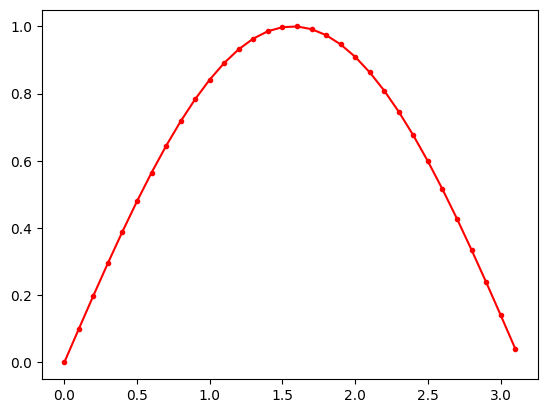
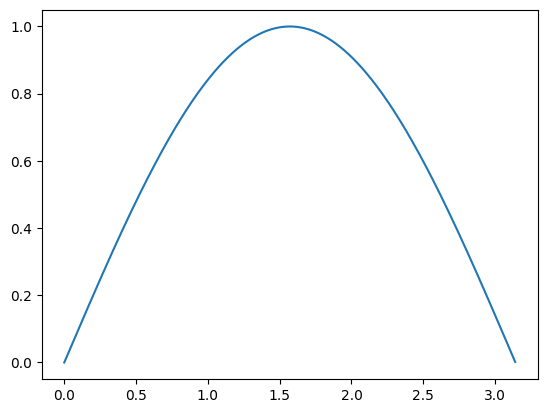
Built site for gh-pages

diff --git a/test_notebook.html b/test_notebook.html
@@ -7,7 +7,7 @@
 <meta name="viewport" content="width=device-width, initial-scale=1.0, user-scalable=yes">
 
 
-<title>test_quarto - Test notebook</title>
+<title>test_quarto – test_notebook</title>
 <style>
 code{white-space: pre-wrap;}
 span.smallcaps{font-variant: small-caps;}
@@ -140,31 +140,16 @@ pre > code.sourceCode > span > a:first-child::before { text-decoration: underlin
 <!-- main -->
 <main class="content" id="quarto-document-content">
 
-<header id="title-block-header" class="quarto-title-block default">
-<div class="quarto-title">
-<h1 class="title">Test notebook</h1>
-</div>
 
 
-
-<div class="quarto-title-meta">
-
-    
-  
-    
-  </div>
-  
-
-</header>
-
-<div class="cell" data-execution_count="6">
+<div class="cell" data-execution_count="1">
 <div class="sourceCode cell-code" id="cb1"><pre class="sourceCode python code-with-copy"><code class="sourceCode python"><span id="cb1-1"><a href="#cb1-1" aria-hidden="true" tabindex="-1"></a><span class="im">import</span> matplotlib.pyplot <span class="im">as</span> plt</span>
 <span id="cb1-2"><a href="#cb1-2" aria-hidden="true" tabindex="-1"></a><span class="im">import</span> numpy <span class="im">as</span> np</span>
 <span id="cb1-3"><a href="#cb1-3" aria-hidden="true" tabindex="-1"></a></span>
-<span id="cb1-4"><a href="#cb1-4" aria-hidden="true" tabindex="-1"></a>x <span class="op">=</span> np.arange(<span class="dv">0</span>, np.pi, <span class="fl">0.1</span>)</span>
+<span id="cb1-4"><a href="#cb1-4" aria-hidden="true" tabindex="-1"></a>x <span class="op">=</span> np.arange(<span class="dv">0</span>, np.pi, <span class="fl">0.01</span>)</span>
 <span id="cb1-5"><a href="#cb1-5" aria-hidden="true" tabindex="-1"></a>y <span class="op">=</span> np.sin(x)</span>
 <span id="cb1-6"><a href="#cb1-6" aria-hidden="true" tabindex="-1"></a></span>
-<span id="cb1-7"><a href="#cb1-7" aria-hidden="true" tabindex="-1"></a>plt.plot(x, y, <span class="st">'.-r'</span>)<span class="op">;</span></span></code><button title="Copy to Clipboard" class="code-copy-button"><i class="bi"></i></button></pre></div>
+<span id="cb1-7"><a href="#cb1-7" aria-hidden="true" tabindex="-1"></a>plt.plot(x, y)</span></code><button title="Copy to Clipboard" class="code-copy-button"><i class="bi"></i></button></pre></div>
 <div class="cell-output cell-output-display">
 <p><img src="test_notebook_files/figure-html/cell-2-output-1.png" class="img-fluid"></p>
 </div>
